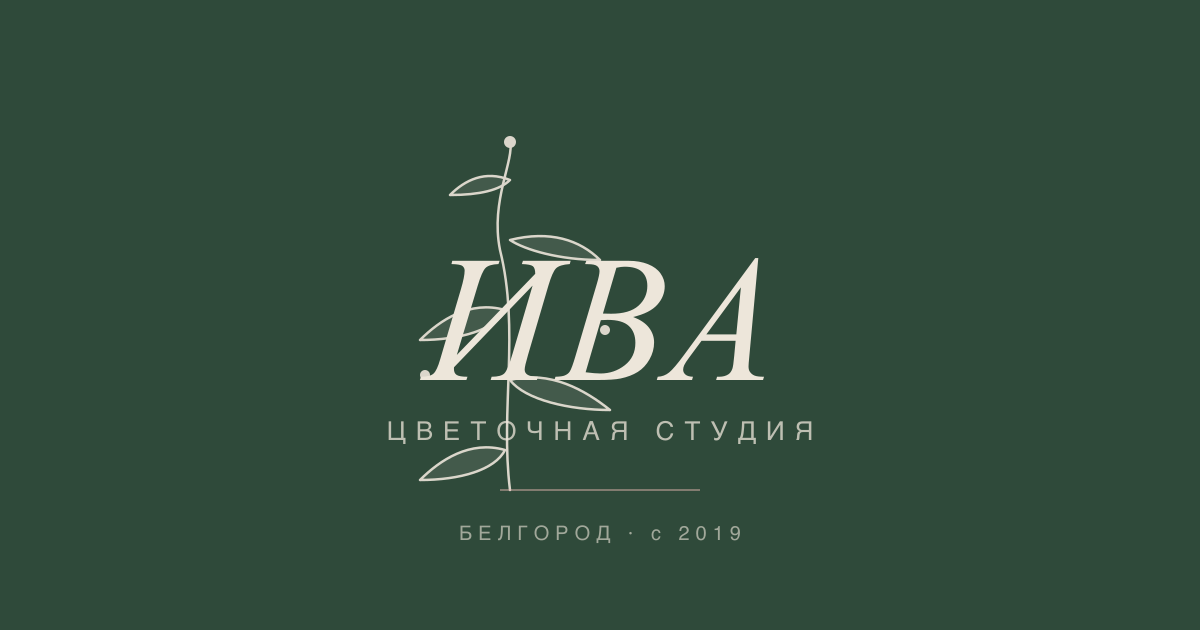
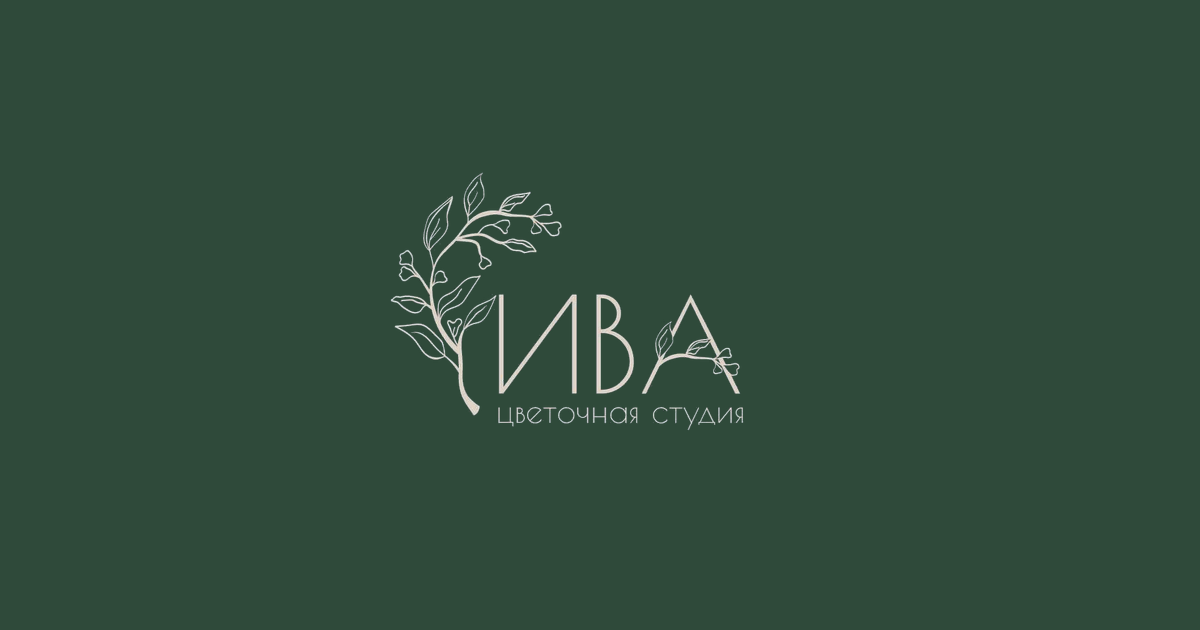
feat(site): реальный логотип ИВА в шапке/футере + OG-превью
- Сохранил оригинальный лого клиента в site/assets/logo.png
- Через sharp вырезал бренд-фон (по цвету #455354 с tol=22) —
  логотип лёг с прозрачностью на любой фон
- Сгенерировал logo-header.png (176×98, ретина 2x) для шапок
- OG-превью 1200×630 — лого по центру на бренд-зелёном фоне
- Заменил inline SVG-веточку на <img> реального лого во всех 9 HTML
  (шапка + футер), убрал текстовые дубли "ИВА / Цветочная студия"
  (уже на самом логотипе)
- Скрипт: backend/scripts/prep-logo.js — можно перегенерить

diff --git a/site/index.html b/site/index.html
@@ -27,12 +27,8 @@
   <!-- ====== Header ====== -->
   <header class="site-header">
     <div class="container site-header__inner">
-      <a href="index.html" class="logo">
-        <svg class="logo__icon" viewBox="0 0 32 40" width="24" height="30" fill="none" stroke="currentColor" stroke-width="1.2" stroke-linecap="round" stroke-linejoin="round"><path d="M16 38c-1-8 1-16-1-24-1-6 2-10 1-12"/><path d="M15.5 30c-4.5-1-7.5 1-9.5 3 4 0 8-1 9.5-3z"/><path d="M15.8 24c4.2-1 7.2 1 9.2 3-4 0-8-1-9.2-3z"/><path d="M15.6 18c-4.6-1-7.6 1-9.6 3 4 0 8-1 9.6-3z"/><path d="M15.9 12c4.1-1 6.1 0 8.1 2-4 0-7-1-8.1-2z"/><path d="M16 6c-3-1-5 0-6 2 3 0 5-1 6-2z"/><circle cx="16" cy="3" r=".8" fill="currentColor" stroke="none"/><circle cx="8" cy="24" r=".6" fill="currentColor" stroke="none"/><circle cx="24" cy="20" r=".6" fill="currentColor" stroke="none"/></svg>
-        <span>
-          <span class="logo__text">ИВА</span>
-          <span class="logo__sub">Цветочная студия</span>
-        </span>
+      <a href="index.html" class="logo" aria-label="ИВА">
+        <img src="assets/logo-header.png" alt="ИВА — цветочная студия" class="logo__img" width="158" height="88">
       </a>
 
       <nav class="nav" id="nav">
@@ -185,8 +181,7 @@
       <div class="footer-grid">
         <div class="footer-col">
           <div class="logo" style="margin-bottom:16px">
-            <svg class="logo__icon" viewBox="0 0 32 40" width="22" height="28" fill="none" stroke="currentColor" stroke-width="1.2" stroke-linecap="round" stroke-linejoin="round"><path d="M16 38c-1-8 1-16-1-24-1-6 2-10 1-12"/><path d="M15.5 30c-4.5-1-7.5 1-9.5 3 4 0 8-1 9.5-3z"/><path d="M15.8 24c4.2-1 7.2 1 9.2 3-4 0-8-1-9.2-3z"/><path d="M15.6 18c-4.6-1-7.6 1-9.6 3 4 0 8-1 9.6-3z"/><path d="M15.9 12c4.1-1 6.1 0 8.1 2-4 0-7-1-8.1-2z"/><path d="M16 6c-3-1-5 0-6 2 3 0 5-1 6-2z"/><circle cx="16" cy="3" r=".8" fill="currentColor" stroke="none"/><circle cx="8" cy="24" r=".6" fill="currentColor" stroke="none"/><circle cx="24" cy="20" r=".6" fill="currentColor" stroke="none"/></svg>
-            <span class="logo__text" style="font-size:22px">ИВА</span>
+            <img src="assets/logo-header.png" alt="ИВА" class="logo__img logo__img--sm" width="140" height="78">
           </div>
           <p>Авторская цветочная студия в Белгороде. Букеты, композиции, оформление.</p>
         </div>

diff --git a/site/catalog.html b/site/catalog.html
@@ -14,12 +14,8 @@
 
   <header class="site-header">
     <div class="container site-header__inner">
-      <a href="index.html" class="logo">
-        <svg class="logo__icon" viewBox="0 0 32 40" width="24" height="30" fill="none" stroke="currentColor" stroke-width="1.2" stroke-linecap="round" stroke-linejoin="round"><path d="M16 38c-1-8 1-16-1-24-1-6 2-10 1-12"/><path d="M15.5 30c-4.5-1-7.5 1-9.5 3 4 0 8-1 9.5-3z"/><path d="M15.8 24c4.2-1 7.2 1 9.2 3-4 0-8-1-9.2-3z"/><path d="M15.6 18c-4.6-1-7.6 1-9.6 3 4 0 8-1 9.6-3z"/><path d="M15.9 12c4.1-1 6.1 0 8.1 2-4 0-7-1-8.1-2z"/><path d="M16 6c-3-1-5 0-6 2 3 0 5-1 6-2z"/><circle cx="16" cy="3" r=".8" fill="currentColor" stroke="none"/><circle cx="8" cy="24" r=".6" fill="currentColor" stroke="none"/><circle cx="24" cy="20" r=".6" fill="currentColor" stroke="none"/></svg>
-        <span>
-          <span class="logo__text">ИВА</span>
-          <span class="logo__sub">Цветочная студия</span>
-        </span>
+      <a href="index.html" class="logo" aria-label="ИВА">
+        <img src="assets/logo-header.png" alt="ИВА — цветочная студия" class="logo__img" width="158" height="88">
       </a>
       <nav class="nav" id="nav">
         <a href="index.html">Главная</a>
@@ -71,8 +67,7 @@
       <div class="footer-grid">
         <div class="footer-col">
           <div class="logo" style="margin-bottom:16px">
-            <svg class="logo__icon" viewBox="0 0 32 40" width="22" height="28" fill="none" stroke="currentColor" stroke-width="1.2" stroke-linecap="round" stroke-linejoin="round"><path d="M16 38c-1-8 1-16-1-24-1-6 2-10 1-12"/><path d="M15.5 30c-4.5-1-7.5 1-9.5 3 4 0 8-1 9.5-3z"/><path d="M15.8 24c4.2-1 7.2 1 9.2 3-4 0-8-1-9.2-3z"/><path d="M15.6 18c-4.6-1-7.6 1-9.6 3 4 0 8-1 9.6-3z"/><path d="M15.9 12c4.1-1 6.1 0 8.1 2-4 0-7-1-8.1-2z"/><path d="M16 6c-3-1-5 0-6 2 3 0 5-1 6-2z"/><circle cx="16" cy="3" r=".8" fill="currentColor" stroke="none"/><circle cx="8" cy="24" r=".6" fill="currentColor" stroke="none"/><circle cx="24" cy="20" r=".6" fill="currentColor" stroke="none"/></svg>
-            <span class="logo__text" style="font-size:22px">ИВА</span>
+            <img src="assets/logo-header.png" alt="ИВА" class="logo__img logo__img--sm" width="140" height="78">
           </div>
           <p>Авторская цветочная студия в Белгороде.</p>
         </div>

diff --git a/site/builder.html b/site/builder.html
@@ -14,9 +14,8 @@
 
   <header class="site-header">
     <div class="container site-header__inner">
-      <a href="index.html" class="logo">
-        <svg class="logo__icon" viewBox="0 0 32 40" width="24" height="30" fill="none" stroke="currentColor" stroke-width="1.2" stroke-linecap="round" stroke-linejoin="round"><path d="M16 38c-1-8 1-16-1-24-1-6 2-10 1-12"/><path d="M15.5 30c-4.5-1-7.5 1-9.5 3 4 0 8-1 9.5-3z"/><path d="M15.8 24c4.2-1 7.2 1 9.2 3-4 0-8-1-9.2-3z"/><path d="M15.6 18c-4.6-1-7.6 1-9.6 3 4 0 8-1 9.6-3z"/><path d="M15.9 12c4.1-1 6.1 0 8.1 2-4 0-7-1-8.1-2z"/><path d="M16 6c-3-1-5 0-6 2 3 0 5-1 6-2z"/><circle cx="16" cy="3" r=".8" fill="currentColor" stroke="none"/><circle cx="8" cy="24" r=".6" fill="currentColor" stroke="none"/><circle cx="24" cy="20" r=".6" fill="currentColor" stroke="none"/></svg>
-        <span><span class="logo__text">ИВА</span><span class="logo__sub">Цветочная студия</span></span>
+      <a href="index.html" class="logo" aria-label="ИВА">
+        <img src="assets/logo-header.png" alt="ИВА — цветочная студия" class="logo__img" width="158" height="88">
       </a>
       <nav class="nav" id="nav">
         <a href="index.html">Главная</a>
@@ -218,8 +217,7 @@
       <div class="footer-grid">
         <div class="footer-col">
           <div class="logo" style="margin-bottom:16px">
-            <svg class="logo__icon" viewBox="0 0 32 40" width="22" height="28" fill="none" stroke="currentColor" stroke-width="1.2" stroke-linecap="round" stroke-linejoin="round"><path d="M16 38c-1-8 1-16-1-24-1-6 2-10 1-12"/><path d="M15.5 30c-4.5-1-7.5 1-9.5 3 4 0 8-1 9.5-3z"/><path d="M15.8 24c4.2-1 7.2 1 9.2 3-4 0-8-1-9.2-3z"/><path d="M15.6 18c-4.6-1-7.6 1-9.6 3 4 0 8-1 9.6-3z"/><path d="M15.9 12c4.1-1 6.1 0 8.1 2-4 0-7-1-8.1-2z"/><path d="M16 6c-3-1-5 0-6 2 3 0 5-1 6-2z"/><circle cx="16" cy="3" r=".8" fill="currentColor" stroke="none"/><circle cx="8" cy="24" r=".6" fill="currentColor" stroke="none"/><circle cx="24" cy="20" r=".6" fill="currentColor" stroke="none"/></svg>
-            <span class="logo__text" style="font-size:22px">ИВА</span>
+            <img src="assets/logo-header.png" alt="ИВА" class="logo__img logo__img--sm" width="140" height="78">
           </div>
           <p>Авторская цветочная студия в Белгороде.</p>
         </div>

diff --git a/site/contacts.html b/site/contacts.html
@@ -13,9 +13,8 @@
 
   <header class="site-header">
     <div class="container site-header__inner">
-      <a href="index.html" class="logo">
-        <svg class="logo__icon" viewBox="0 0 32 40" width="24" height="30" fill="none" stroke="currentColor" stroke-width="1.2" stroke-linecap="round" stroke-linejoin="round"><path d="M16 38c-1-8 1-16-1-24-1-6 2-10 1-12"/><path d="M15.5 30c-4.5-1-7.5 1-9.5 3 4 0 8-1 9.5-3z"/><path d="M15.8 24c4.2-1 7.2 1 9.2 3-4 0-8-1-9.2-3z"/><path d="M15.6 18c-4.6-1-7.6 1-9.6 3 4 0 8-1 9.6-3z"/><path d="M15.9 12c4.1-1 6.1 0 8.1 2-4 0-7-1-8.1-2z"/><path d="M16 6c-3-1-5 0-6 2 3 0 5-1 6-2z"/><circle cx="16" cy="3" r=".8" fill="currentColor" stroke="none"/><circle cx="8" cy="24" r=".6" fill="currentColor" stroke="none"/><circle cx="24" cy="20" r=".6" fill="currentColor" stroke="none"/></svg>
-        <span><span class="logo__text">ИВА</span><span class="logo__sub">Цветочная студия</span></span>
+      <a href="index.html" class="logo" aria-label="ИВА">
+        <img src="assets/logo-header.png" alt="ИВА — цветочная студия" class="logo__img" width="158" height="88">
       </a>
       <nav class="nav" id="nav">
         <a href="index.html">Главная</a>
@@ -131,8 +130,7 @@
       <div class="footer-grid">
         <div class="footer-col">
           <div class="logo" style="margin-bottom:16px">
-            <svg class="logo__icon" viewBox="0 0 32 40" width="22" height="28" fill="none" stroke="currentColor" stroke-width="1.2" stroke-linecap="round" stroke-linejoin="round"><path d="M16 38c-1-8 1-16-1-24-1-6 2-10 1-12"/><path d="M15.5 30c-4.5-1-7.5 1-9.5 3 4 0 8-1 9.5-3z"/><path d="M15.8 24c4.2-1 7.2 1 9.2 3-4 0-8-1-9.2-3z"/><path d="M15.6 18c-4.6-1-7.6 1-9.6 3 4 0 8-1 9.6-3z"/><path d="M15.9 12c4.1-1 6.1 0 8.1 2-4 0-7-1-8.1-2z"/><path d="M16 6c-3-1-5 0-6 2 3 0 5-1 6-2z"/><circle cx="16" cy="3" r=".8" fill="currentColor" stroke="none"/><circle cx="8" cy="24" r=".6" fill="currentColor" stroke="none"/><circle cx="24" cy="20" r=".6" fill="currentColor" stroke="none"/></svg>
-            <span class="logo__text" style="font-size:22px">ИВА</span>
+            <img src="assets/logo-header.png" alt="ИВА" class="logo__img logo__img--sm" width="140" height="78">
           </div>
           <p>Авторская цветочная студия в Белгороде.</p>
         </div>

diff --git a/site/privacy.html b/site/privacy.html
@@ -13,9 +13,8 @@
 
   <header class="site-header">
     <div class="container site-header__inner">
-      <a href="index.html" class="logo">
-        <svg class="logo__icon" viewBox="0 0 32 40" width="24" height="30" fill="none" stroke="currentColor" stroke-width="1.2" stroke-linecap="round" stroke-linejoin="round"><path d="M16 38c-1-8 1-16-1-24-1-6 2-10 1-12"/><path d="M15.5 30c-4.5-1-7.5 1-9.5 3 4 0 8-1 9.5-3z"/><path d="M15.8 24c4.2-1 7.2 1 9.2 3-4 0-8-1-9.2-3z"/><path d="M15.6 18c-4.6-1-7.6 1-9.6 3 4 0 8-1 9.6-3z"/><path d="M15.9 12c4.1-1 6.1 0 8.1 2-4 0-7-1-8.1-2z"/><path d="M16 6c-3-1-5 0-6 2 3 0 5-1 6-2z"/><circle cx="16" cy="3" r=".8" fill="currentColor" stroke="none"/><circle cx="8" cy="24" r=".6" fill="currentColor" stroke="none"/><circle cx="24" cy="20" r=".6" fill="currentColor" stroke="none"/></svg>
-        <span><span class="logo__text">ИВА</span><span class="logo__sub">Цветочная студия</span></span>
+      <a href="index.html" class="logo" aria-label="ИВА">
+        <img src="assets/logo-header.png" alt="ИВА — цветочная студия" class="logo__img" width="158" height="88">
       </a>
       <nav class="nav" id="nav">
         <a href="index.html">Главная</a>
@@ -120,8 +119,7 @@
       <div class="footer-grid">
         <div class="footer-col">
           <div class="logo" style="margin-bottom:16px">
-            <svg class="logo__icon" viewBox="0 0 32 40" width="22" height="28" fill="none" stroke="currentColor" stroke-width="1.2" stroke-linecap="round" stroke-linejoin="round"><path d="M16 38c-1-8 1-16-1-24-1-6 2-10 1-12"/><path d="M15.5 30c-4.5-1-7.5 1-9.5 3 4 0 8-1 9.5-3z"/><path d="M15.8 24c4.2-1 7.2 1 9.2 3-4 0-8-1-9.2-3z"/><path d="M15.6 18c-4.6-1-7.6 1-9.6 3 4 0 8-1 9.6-3z"/><path d="M15.9 12c4.1-1 6.1 0 8.1 2-4 0-7-1-8.1-2z"/><path d="M16 6c-3-1-5 0-6 2 3 0 5-1 6-2z"/><circle cx="16" cy="3" r=".8" fill="currentColor" stroke="none"/><circle cx="8" cy="24" r=".6" fill="currentColor" stroke="none"/><circle cx="24" cy="20" r=".6" fill="currentColor" stroke="none"/></svg>
-            <span class="logo__text" style="font-size:22px">ИВА</span>
+            <img src="assets/logo-header.png" alt="ИВА" class="logo__img logo__img--sm" width="140" height="78">
           </div>
           <p>Авторская цветочная студия в Белгороде.</p>
         </div>

diff --git a/site/reviews.html b/site/reviews.html
@@ -13,9 +13,8 @@
 
   <header class="site-header">
     <div class="container site-header__inner">
-      <a href="index.html" class="logo">
-        <svg class="logo__icon" viewBox="0 0 32 40" width="24" height="30" fill="none" stroke="currentColor" stroke-width="1.2" stroke-linecap="round" stroke-linejoin="round"><path d="M16 38c-1-8 1-16-1-24-1-6 2-10 1-12"/><path d="M15.5 30c-4.5-1-7.5 1-9.5 3 4 0 8-1 9.5-3z"/><path d="M15.8 24c4.2-1 7.2 1 9.2 3-4 0-8-1-9.2-3z"/><path d="M15.6 18c-4.6-1-7.6 1-9.6 3 4 0 8-1 9.6-3z"/><path d="M15.9 12c4.1-1 6.1 0 8.1 2-4 0-7-1-8.1-2z"/><path d="M16 6c-3-1-5 0-6 2 3 0 5-1 6-2z"/><circle cx="16" cy="3" r=".8" fill="currentColor" stroke="none"/><circle cx="8" cy="24" r=".6" fill="currentColor" stroke="none"/><circle cx="24" cy="20" r=".6" fill="currentColor" stroke="none"/></svg>
-        <span><span class="logo__text">ИВА</span><span class="logo__sub">Цветочная студия</span></span>
+      <a href="index.html" class="logo" aria-label="ИВА">
+        <img src="assets/logo-header.png" alt="ИВА — цветочная студия" class="logo__img" width="158" height="88">
       </a>
       <nav class="nav" id="nav">
         <a href="index.html">Главная</a>
@@ -186,8 +185,7 @@
       <div class="footer-grid">
         <div class="footer-col">
           <div class="logo" style="margin-bottom:16px">
-            <svg class="logo__icon" viewBox="0 0 32 40" width="22" height="28" fill="none" stroke="currentColor" stroke-width="1.2" stroke-linecap="round" stroke-linejoin="round"><path d="M16 38c-1-8 1-16-1-24-1-6 2-10 1-12"/><path d="M15.5 30c-4.5-1-7.5 1-9.5 3 4 0 8-1 9.5-3z"/><path d="M15.8 24c4.2-1 7.2 1 9.2 3-4 0-8-1-9.2-3z"/><path d="M15.6 18c-4.6-1-7.6 1-9.6 3 4 0 8-1 9.6-3z"/><path d="M15.9 12c4.1-1 6.1 0 8.1 2-4 0-7-1-8.1-2z"/><path d="M16 6c-3-1-5 0-6 2 3 0 5-1 6-2z"/><circle cx="16" cy="3" r=".8" fill="currentColor" stroke="none"/><circle cx="8" cy="24" r=".6" fill="currentColor" stroke="none"/><circle cx="24" cy="20" r=".6" fill="currentColor" stroke="none"/></svg>
-            <span class="logo__text" style="font-size:22px">ИВА</span>
+            <img src="assets/logo-header.png" alt="ИВА" class="logo__img logo__img--sm" width="140" height="78">
           </div>
           <p>Авторская цветочная студия в Белгороде.</p>
         </div>

diff --git a/site/checkout.html b/site/checkout.html
@@ -19,9 +19,8 @@
 
   <header class="site-header">
     <div class="container site-header__inner">
-      <a href="index.html" class="logo">
-        <svg class="logo__icon" viewBox="0 0 32 40" width="24" height="30" fill="none" stroke="currentColor" stroke-width="1.2" stroke-linecap="round" stroke-linejoin="round"><path d="M16 38c-1-8 1-16-1-24-1-6 2-10 1-12"/><path d="M15.5 30c-4.5-1-7.5 1-9.5 3 4 0 8-1 9.5-3z"/><path d="M15.8 24c4.2-1 7.2 1 9.2 3-4 0-8-1-9.2-3z"/><path d="M15.6 18c-4.6-1-7.6 1-9.6 3 4 0 8-1 9.6-3z"/><path d="M15.9 12c4.1-1 6.1 0 8.1 2-4 0-7-1-8.1-2z"/><path d="M16 6c-3-1-5 0-6 2 3 0 5-1 6-2z"/><circle cx="16" cy="3" r=".8" fill="currentColor" stroke="none"/><circle cx="8" cy="24" r=".6" fill="currentColor" stroke="none"/><circle cx="24" cy="20" r=".6" fill="currentColor" stroke="none"/></svg>
-        <span><span class="logo__text">ИВА</span><span class="logo__sub">Цветочная студия</span></span>
+      <a href="index.html" class="logo" aria-label="ИВА">
+        <img src="assets/logo-header.png" alt="ИВА — цветочная студия" class="logo__img" width="158" height="88">
       </a>
       <nav class="nav" id="nav">
         <a href="index.html">Главная</a>
@@ -62,8 +61,7 @@
       <div class="footer-grid">
         <div class="footer-col">
           <div class="logo" style="margin-bottom:16px">
-            <svg class="logo__icon" viewBox="0 0 32 40" width="22" height="28" fill="none" stroke="currentColor" stroke-width="1.2" stroke-linecap="round" stroke-linejoin="round"><path d="M16 38c-1-8 1-16-1-24-1-6 2-10 1-12"/><path d="M15.5 30c-4.5-1-7.5 1-9.5 3 4 0 8-1 9.5-3z"/><path d="M15.8 24c4.2-1 7.2 1 9.2 3-4 0-8-1-9.2-3z"/><path d="M15.6 18c-4.6-1-7.6 1-9.6 3 4 0 8-1 9.6-3z"/><path d="M15.9 12c4.1-1 6.1 0 8.1 2-4 0-7-1-8.1-2z"/><path d="M16 6c-3-1-5 0-6 2 3 0 5-1 6-2z"/><circle cx="16" cy="3" r=".8" fill="currentColor" stroke="none"/><circle cx="8" cy="24" r=".6" fill="currentColor" stroke="none"/><circle cx="24" cy="20" r=".6" fill="currentColor" stroke="none"/></svg>
-            <span class="logo__text" style="font-size:22px">ИВА</span>
+            <img src="assets/logo-header.png" alt="ИВА" class="logo__img logo__img--sm" width="140" height="78">
           </div>
           <p>Авторская цветочная студия в Белгороде.</p>
         </div>

diff --git a/site/product.html b/site/product.html
@@ -13,9 +13,8 @@
 
   <header class="site-header">
     <div class="container site-header__inner">
-      <a href="index.html" class="logo">
-        <svg class="logo__icon" viewBox="0 0 32 40" width="24" height="30" fill="none" stroke="currentColor" stroke-width="1.2" stroke-linecap="round" stroke-linejoin="round"><path d="M16 38c-1-8 1-16-1-24-1-6 2-10 1-12"/><path d="M15.5 30c-4.5-1-7.5 1-9.5 3 4 0 8-1 9.5-3z"/><path d="M15.8 24c4.2-1 7.2 1 9.2 3-4 0-8-1-9.2-3z"/><path d="M15.6 18c-4.6-1-7.6 1-9.6 3 4 0 8-1 9.6-3z"/><path d="M15.9 12c4.1-1 6.1 0 8.1 2-4 0-7-1-8.1-2z"/><path d="M16 6c-3-1-5 0-6 2 3 0 5-1 6-2z"/><circle cx="16" cy="3" r=".8" fill="currentColor" stroke="none"/><circle cx="8" cy="24" r=".6" fill="currentColor" stroke="none"/><circle cx="24" cy="20" r=".6" fill="currentColor" stroke="none"/></svg>
-        <span><span class="logo__text">ИВА</span><span class="logo__sub">Цветочная студия</span></span>
+      <a href="index.html" class="logo" aria-label="ИВА">
+        <img src="assets/logo-header.png" alt="ИВА — цветочная студия" class="logo__img" width="158" height="88">
       </a>
       <nav class="nav" id="nav">
         <a href="index.html">Главная</a>
@@ -59,8 +58,7 @@
       <div class="footer-grid">
         <div class="footer-col">
           <div class="logo" style="margin-bottom:16px">
-            <svg class="logo__icon" viewBox="0 0 32 40" width="22" height="28" fill="none" stroke="currentColor" stroke-width="1.2" stroke-linecap="round" stroke-linejoin="round"><path d="M16 38c-1-8 1-16-1-24-1-6 2-10 1-12"/><path d="M15.5 30c-4.5-1-7.5 1-9.5 3 4 0 8-1 9.5-3z"/><path d="M15.8 24c4.2-1 7.2 1 9.2 3-4 0-8-1-9.2-3z"/><path d="M15.6 18c-4.6-1-7.6 1-9.6 3 4 0 8-1 9.6-3z"/><path d="M15.9 12c4.1-1 6.1 0 8.1 2-4 0-7-1-8.1-2z"/><path d="M16 6c-3-1-5 0-6 2 3 0 5-1 6-2z"/><circle cx="16" cy="3" r=".8" fill="currentColor" stroke="none"/><circle cx="8" cy="24" r=".6" fill="currentColor" stroke="none"/><circle cx="24" cy="20" r=".6" fill="currentColor" stroke="none"/></svg>
-            <span class="logo__text" style="font-size:22px">ИВА</span>
+            <img src="assets/logo-header.png" alt="ИВА" class="logo__img logo__img--sm" width="140" height="78">
           </div>
           <p>Авторская цветочная студия в Белгороде.</p>
         </div>

diff --git a/site/success.html b/site/success.html
@@ -13,9 +13,8 @@
 
   <header class="site-header">
     <div class="container site-header__inner">
-      <a href="index.html" class="logo">
-        <svg class="logo__icon" viewBox="0 0 32 40" width="24" height="30" fill="none" stroke="currentColor" stroke-width="1.2" stroke-linecap="round" stroke-linejoin="round"><path d="M16 38c-1-8 1-16-1-24-1-6 2-10 1-12"/><path d="M15.5 30c-4.5-1-7.5 1-9.5 3 4 0 8-1 9.5-3z"/><path d="M15.8 24c4.2-1 7.2 1 9.2 3-4 0-8-1-9.2-3z"/><path d="M15.6 18c-4.6-1-7.6 1-9.6 3 4 0 8-1 9.6-3z"/><path d="M15.9 12c4.1-1 6.1 0 8.1 2-4 0-7-1-8.1-2z"/><path d="M16 6c-3-1-5 0-6 2 3 0 5-1 6-2z"/><circle cx="16" cy="3" r=".8" fill="currentColor" stroke="none"/><circle cx="8" cy="24" r=".6" fill="currentColor" stroke="none"/><circle cx="24" cy="20" r=".6" fill="currentColor" stroke="none"/></svg>
-        <span><span class="logo__text">ИВА</span><span class="logo__sub">Цветочная студия</span></span>
+      <a href="index.html" class="logo" aria-label="ИВА">
+        <img src="assets/logo-header.png" alt="ИВА — цветочная студия" class="logo__img" width="158" height="88">
       </a>
       <nav class="nav" id="nav">
         <a href="index.html">Главная</a>
@@ -53,8 +52,7 @@
       <div class="footer-grid">
         <div class="footer-col">
           <div class="logo" style="margin-bottom:16px">
-            <svg class="logo__icon" viewBox="0 0 32 40" width="22" height="28" fill="none" stroke="currentColor" stroke-width="1.2" stroke-linecap="round" stroke-linejoin="round"><path d="M16 38c-1-8 1-16-1-24-1-6 2-10 1-12"/><path d="M15.5 30c-4.5-1-7.5 1-9.5 3 4 0 8-1 9.5-3z"/><path d="M15.8 24c4.2-1 7.2 1 9.2 3-4 0-8-1-9.2-3z"/><path d="M15.6 18c-4.6-1-7.6 1-9.6 3 4 0 8-1 9.6-3z"/><path d="M15.9 12c4.1-1 6.1 0 8.1 2-4 0-7-1-8.1-2z"/><path d="M16 6c-3-1-5 0-6 2 3 0 5-1 6-2z"/><circle cx="16" cy="3" r=".8" fill="currentColor" stroke="none"/><circle cx="8" cy="24" r=".6" fill="currentColor" stroke="none"/><circle cx="24" cy="20" r=".6" fill="currentColor" stroke="none"/></svg>
-            <span class="logo__text" style="font-size:22px">ИВА</span>
+            <img src="assets/logo-header.png" alt="ИВА" class="logo__img logo__img--sm" width="140" height="78">
           </div>
           <p>Авторская цветочная студия в Белгороде.</p>
         </div>

diff --git a/backend/scripts/prep-logo.js b/backend/scripts/prep-logo.js
@@ -1,0 +1,50 @@
+/* Готовит логотип из site/assets/logo.png:
+   1. logo-transparent.png — вырезан бренд-фон (#455354), листья/буквы остаются
+   2. logo-header.png — маленький ретина-вариант для шапки (h≈88px)
+   3. og.png — 1200×630 бренд-превью с логотипом по центру
+*/
+import sharp from 'sharp';
+import path from 'node:path';
+import fs from 'node:fs/promises';
+import { fileURLToPath } from 'node:url';
+
+const __dirname = path.dirname(fileURLToPath(import.meta.url));
+const ASSETS = path.join(__dirname, '..', '..', 'site', 'assets');
+const SITE = path.join(__dirname, '..', '..', 'site');
+const SRC = path.join(ASSETS, 'logo.png');
+
+const BG = [69, 83, 84];   // измеренный фон
+const TOL = 22;             // терпимость по каналу
+
+const src = sharp(SRC);
+const { data, info } = await src.raw().ensureAlpha().toBuffer({ resolveWithObject: true });
+const px = new Uint8Array(data);
+for (let i = 0; i < px.length; i += 4) {
+  const dr = Math.abs(px[i] - BG[0]);
+  const dg = Math.abs(px[i+1] - BG[1]);
+  const db = Math.abs(px[i+2] - BG[2]);
+  if (dr < TOL && dg < TOL && db < TOL) {
+    px[i+3] = 0;
+  }
+}
+const transparentBuf = await sharp(px, { raw: { width: info.width, height: info.height, channels: 4 } })
+  .png().toBuffer();
+await fs.writeFile(path.join(ASSETS, 'logo-transparent.png'), transparentBuf);
+console.log('logo-transparent.png:', transparentBuf.length);
+
+const headerBuf = await sharp(transparentBuf).resize({ height: 176 }).png({ compressionLevel: 9 }).toBuffer();
+await fs.writeFile(path.join(ASSETS, 'logo-header.png'), headerBuf);
+console.log('logo-header.png:', headerBuf.length);
+
+const BRAND = { r: 47, g: 74, b: 58 };
+const bgBase = await sharp({
+  create: { width: 1200, height: 630, channels: 4, background: BRAND }
+}).png().toBuffer();
+
+const ogLogo = await sharp(transparentBuf).resize({ height: 400, fit: 'inside' }).toBuffer();
+const ogBuf = await sharp(bgBase)
+  .composite([{ input: ogLogo, gravity: 'center' }])
+  .png()
+  .toBuffer();
+await fs.writeFile(path.join(SITE, 'og.png'), ogBuf);
+console.log('og.png:', ogBuf.length);

diff --git a/site/style.css b/site/style.css
@@ -129,6 +129,8 @@ p  { color: var(--cream-dim); }
   color: var(--cream);
 }
 .logo__icon { color: var(--pink); flex-shrink: 0; }
+.logo__img { height: 48px; width: auto; display: block; flex-shrink: 0; }
+.logo__img--sm { height: 40px; }
 .logo__text {
   font-family: var(--font-serif);
   font-size: 26px;
